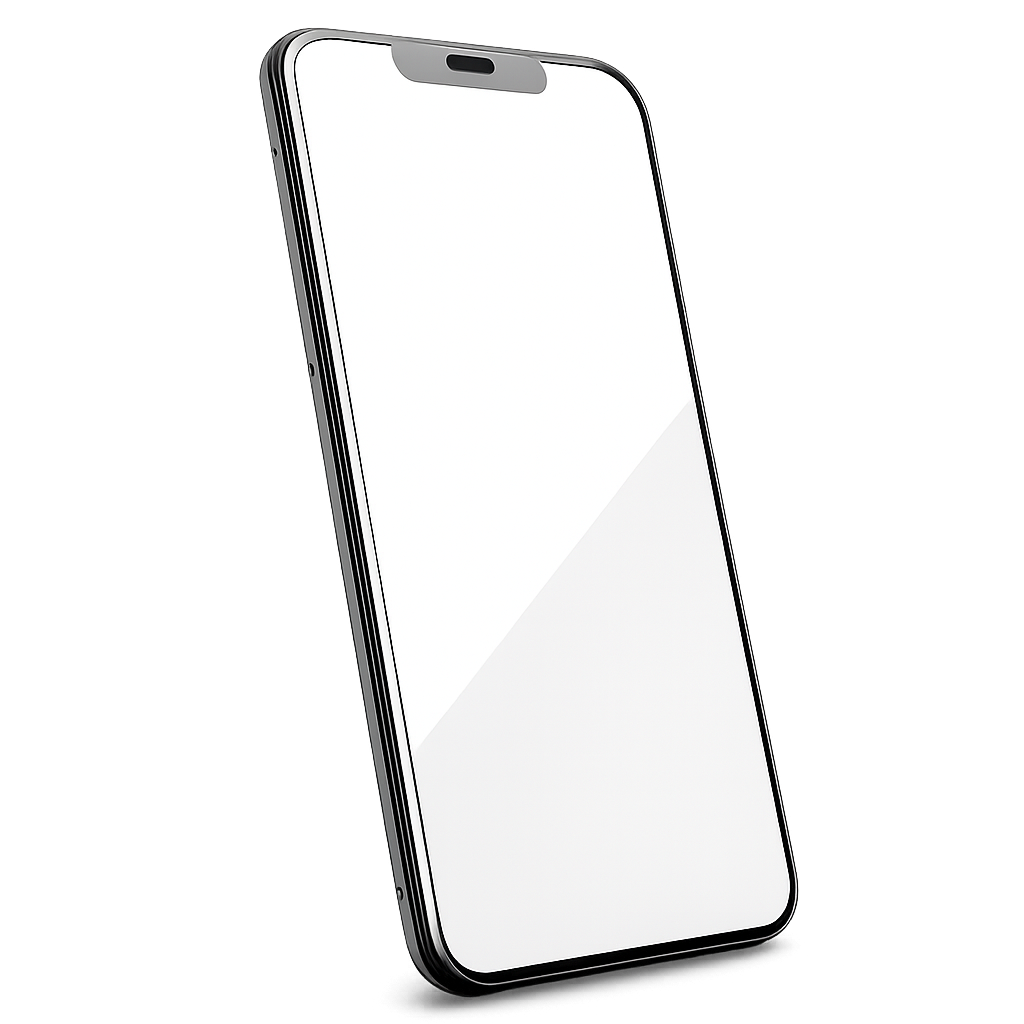
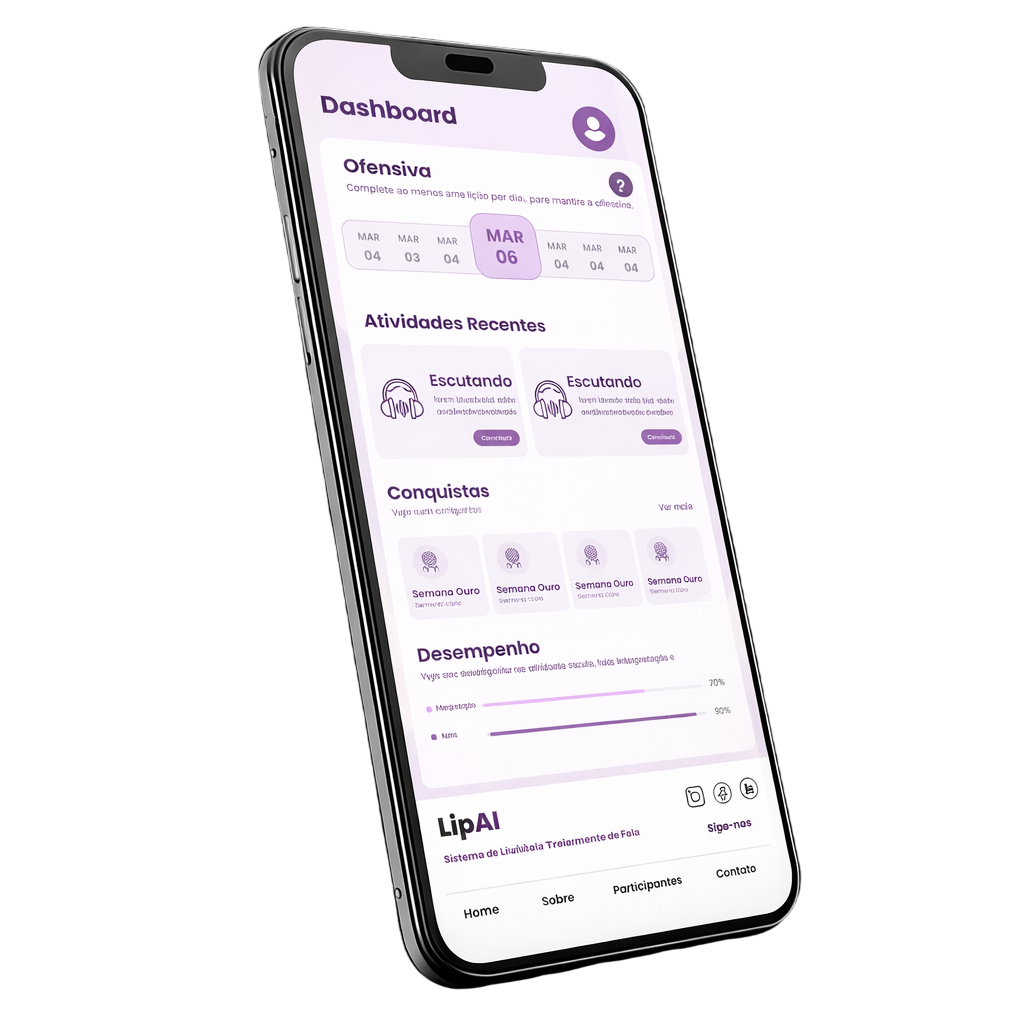
Add files via upload

diff --git a/src/pages/TelaLandingPage/index.jsx b/src/pages/TelaLandingPage/index.jsx
@@ -13,9 +13,11 @@ import gaelImg from "../../assets/img/Gael.jpg";
 import joaoImg from "../../assets/img/João.jpg";
 import angeloImg from "../../assets/img/Angelo.jpg"
 
+import inclusao_icon from "../../assets/img/inclusao_icon.png"
 import cerebroIcon from "../../assets/img/cerebro.png"
 import lipsIcon from "../../assets/img/lips.png"
 import lipsIconPurple from "../../assets/img/lips-purple.png"
+import aprendizado_icon from "../../assets/img/aprendizado_icon.png"
 
 
 
@@ -50,12 +52,11 @@ const membros = [
 const TelaLandingPage = () => {
   return (
     <div className="landing">
-      {/* NAVBAR */}
+     
       <NavbarLandingPage />
 
-      {/* HERO + WAVE + FEATURES WRAPPER */}
       <div className="landing__hero-wrapper">
-        {/* HERO */}
+        
         <section className="landing__hero" id="home">
           <div className="landing__hero-text">
             <div className="landing__hero-logo">
@@ -77,7 +78,6 @@ const TelaLandingPage = () => {
           </div>
         </section>
 
-        {/* ONDA ROXA */}
         <div className="landing__hero-wave">
           <svg viewBox="0 0 1440 200" preserveAspectRatio="none">
             <path
@@ -87,7 +87,6 @@ const TelaLandingPage = () => {
           </svg>
         </div>
 
-        {/* FEATURES */}
         <section className="landing__features">
           <div className="landing__feature-card">
             <div className="feature-icon">
@@ -118,9 +117,8 @@ const TelaLandingPage = () => {
         </section>
       </div>
 
-      {/* SOBRE */}
       <section className="landing__sobre" id="sobre">
-        <div className="landing__sobre-bg"></div> {/* DIV DE FUNDO PARA O ROXO CLARO */}
+        <div className="landing__sobre-bg"></div> 
         <h2>Sobre o LipAI</h2>
         <div className="landing__sobre-content">
           <div className="landing__sobre-image">
@@ -143,7 +141,9 @@ const TelaLandingPage = () => {
             </div>
 
             <div className="benefit-item">
-              <div className="benefit-icon">🕐</div>
+              <div className="benefit-icon">
+                <img src={inclusao_icon} alt="" />
+              </div>
               <div>
                 <h4>Inclusão e Acessibilidade</h4>
                 <p>
@@ -152,7 +152,9 @@ const TelaLandingPage = () => {
             </div>
 
             <div className="benefit-item">
-              <div className="benefit-icon">🕐</div>
+              <div className="benefit-icon">
+                <img src={aprendizado_icon} alt="" /> 
+              </div>
               <div>
                 <h4>Aprendizado Interativo</h4>
                 <p>
@@ -163,7 +165,6 @@ const TelaLandingPage = () => {
         </div>
       </section>
 
-      {/* CTA */}
       <section className="landing__cta">
         <div className="landing__cta-card">
           <div className="landing__cta-circle"></div>
@@ -195,14 +196,11 @@ const TelaLandingPage = () => {
         </div>
       </section>
 
-      {/* EQUIPE */}
-      {/* EQUIPE */}
-      <section className="equipe" id="equipe">
+      <section className="equipe" id="participantes">
         <div className="equipe__grid">
           {membros.map((m, i) => (
             <div className="equipe__card" key={i}>
               <div className="equipe__card-inner">
-                {/* Mudança aqui: m.foto em vez de membroImg */}
                 <img src={m.foto} alt={m.nome} />
                 <h4>{m.nome}</h4>
                 <p>{m.cargo}</p>
@@ -212,7 +210,6 @@ const TelaLandingPage = () => {
         </div>
       </section>
 
-      {/* CONTATO */}
       <section className="landing__contato" id="contato">
         <div className="landing__contato-container">
           <h2>Contato:</h2>

diff --git a/src/pages/TelaLandingPage/index.css b/src/pages/TelaLandingPage/index.css
@@ -16,11 +16,12 @@
 .landing__hero {
   display: flex;
   align-items: center;
-  justify-content: space-between;
+  justify-content: center;
   padding: 80px 80px 160px;
   gap: 40px;
   position: relative;
   z-index: 2;
+  margin-left: 220px;
 }
 
 .landing__hero-wave {
@@ -52,14 +53,14 @@
 }
 
 .landing__hero-logo .logo-lip {
-  font-size: 3rem;
+  font-size: 3.7rem;
   font-weight: 900;
   color: #1a0533;
   line-height: 1;
 }
 
 .landing__hero-logo .logo-ai {
-  font-size: 3rem;
+  font-size: 3.7rem;
   font-weight: 900;
   color: #ffffff;
   background-color: #522566;
@@ -70,7 +71,7 @@
 }
 
 .landing__hero-subtitle {
-  font-size: 1.25rem;
+  font-size: 1.3rem;
   font-weight: 700;
   color: #7a3a8e;
   margin-bottom: 14px;

diff --git a/src/components/Footer/index.jsx b/src/components/Footer/index.jsx
@@ -15,7 +15,7 @@ const Footer = () => {
             <ul>
               <li><a href="#home">Home</a></li>
               <li><a href="#sobre">Sobre</a></li>
-              <li><a href="#participantes">Participantes</a></li>
+              <li><a href="#equipe">Equipe</a></li>
               <li><a href="#contato">Contato</a></li>
             </ul>
           </nav>

diff --git a/src/components/Navbar-landingpage/index.jsx b/src/components/Navbar-landingpage/index.jsx
@@ -12,7 +12,7 @@ const NavbarLandingPage = () => {
       <ul className="navbar-lp__links">
         <li><a href="#home">Home</a></li>
         <li><a href="#sobre">Sobre</a></li>
-        <li><a href="#equipe">Participantes</a></li>
+        <li><a href="#participantes">Equipe</a></li>
         <li><a href="#contato">Contato</a></li>
       </ul>
 